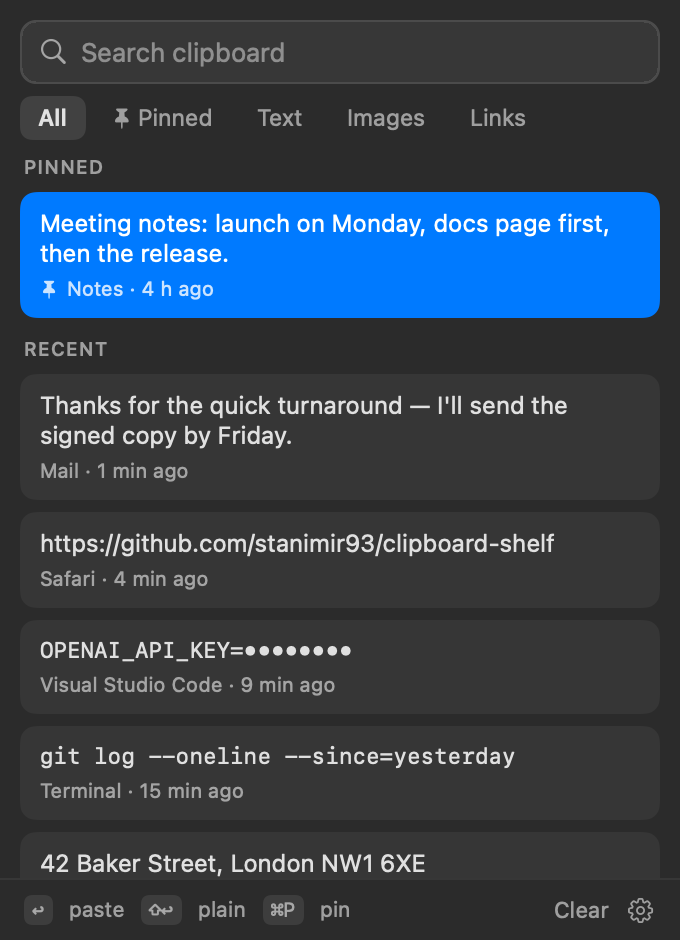
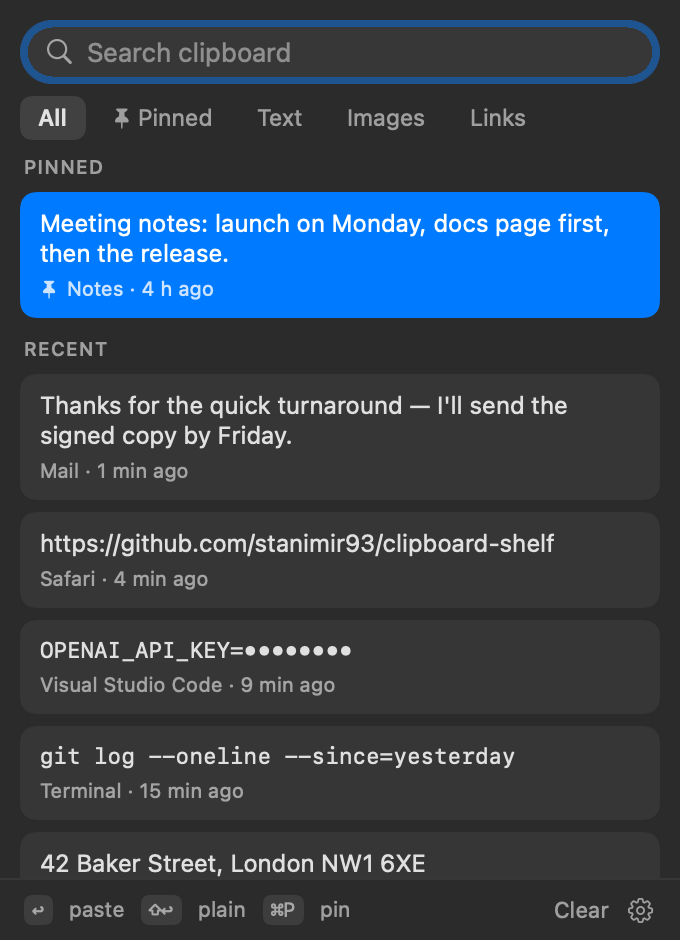
Search field is a capsule with Settings' focus ring
Rounded to a capsule like System Settings' search field, with its soft
accent-coloured ring instead of a thin grey outline, since the field has
the focus whenever the panel is open.

Changed region(s): [[0.0309, 0.0, 0.9882, 0.0926]]

diff --git a/Sources/ClipboardShelf/PanelView.swift b/Sources/ClipboardShelf/PanelView.swift
@@ -276,8 +276,8 @@ struct SearchField: NSViewRepresentable {
     func makeNSView(context: Context) -> NSView {
         let box = NSView()
         box.wantsLayer = true
-        box.layer?.cornerRadius = 8
-        box.layer?.borderWidth = 1
+        box.layer?.cornerRadius = 16 // a capsule, like System Settings' search field
+        box.layer?.borderWidth = 3.5
 
         let icon = NSImageView(image: NSImage(systemSymbolName: "magnifyingglass", accessibilityDescription: nil)!)
         icon.contentTintColor = .secondaryLabelColor
@@ -306,12 +306,12 @@ struct SearchField: NSViewRepresentable {
         box.addSubview(count)
         NSLayoutConstraint.activate([
             box.heightAnchor.constraint(equalToConstant: 32),
-            icon.leadingAnchor.constraint(equalTo: box.leadingAnchor, constant: 9),
+            icon.leadingAnchor.constraint(equalTo: box.leadingAnchor, constant: 12),
             icon.centerYAnchor.constraint(equalTo: box.centerYAnchor),
             field.leadingAnchor.constraint(equalTo: icon.trailingAnchor, constant: 6),
             field.centerYAnchor.constraint(equalTo: box.centerYAnchor),
             count.leadingAnchor.constraint(equalTo: field.trailingAnchor, constant: 6),
-            count.trailingAnchor.constraint(equalTo: box.trailingAnchor, constant: -9),
+            count.trailingAnchor.constraint(equalTo: box.trailingAnchor, constant: -12),
             count.centerYAnchor.constraint(equalTo: box.centerYAnchor),
         ])
         context.coordinator.count = count
@@ -328,7 +328,8 @@ struct SearchField: NSViewRepresentable {
         let light = box.effectiveAppearance.bestMatch(from: [.aqua, .darkAqua]) == .aqua
         box.effectiveAppearance.performAsCurrentDrawingAppearance {
             box.layer?.backgroundColor = NSColor.labelColor.withAlphaComponent(light ? 0.03 : 0.06).cgColor
-            box.layer?.borderColor = (searching ? NSColor.controlAccentColor : NSColor.labelColor.withAlphaComponent(light ? 0.08 : 0.1)).cgColor
+            // Settings' focus ring: a soft accent-coloured band, shown while the field has the focus.
+            box.layer?.borderColor = NSColor.controlAccentColor.withAlphaComponent(0.45).cgColor
         }
     }
 
